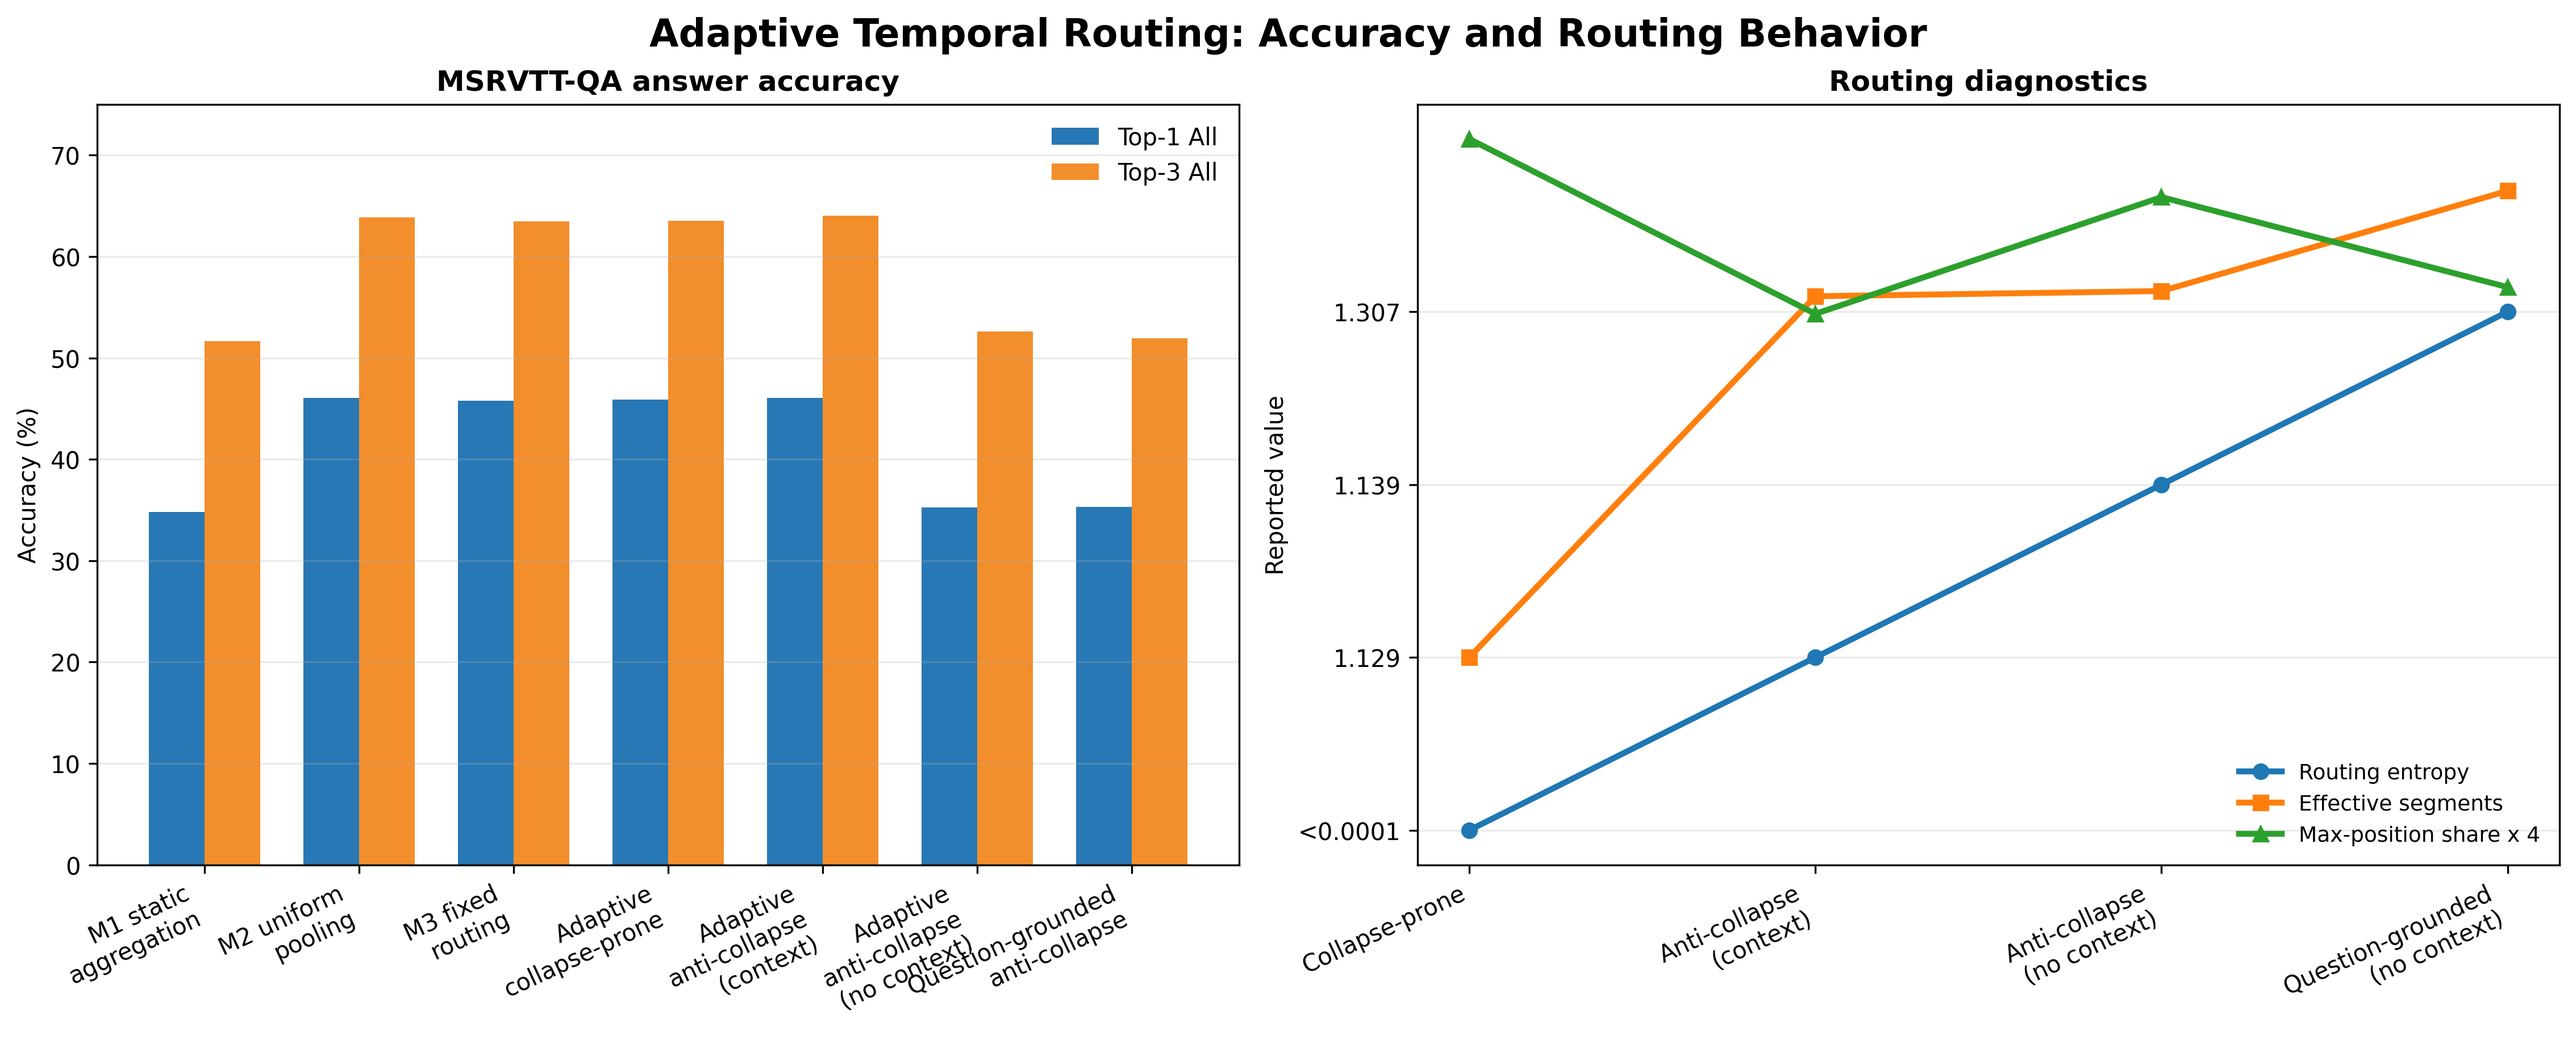
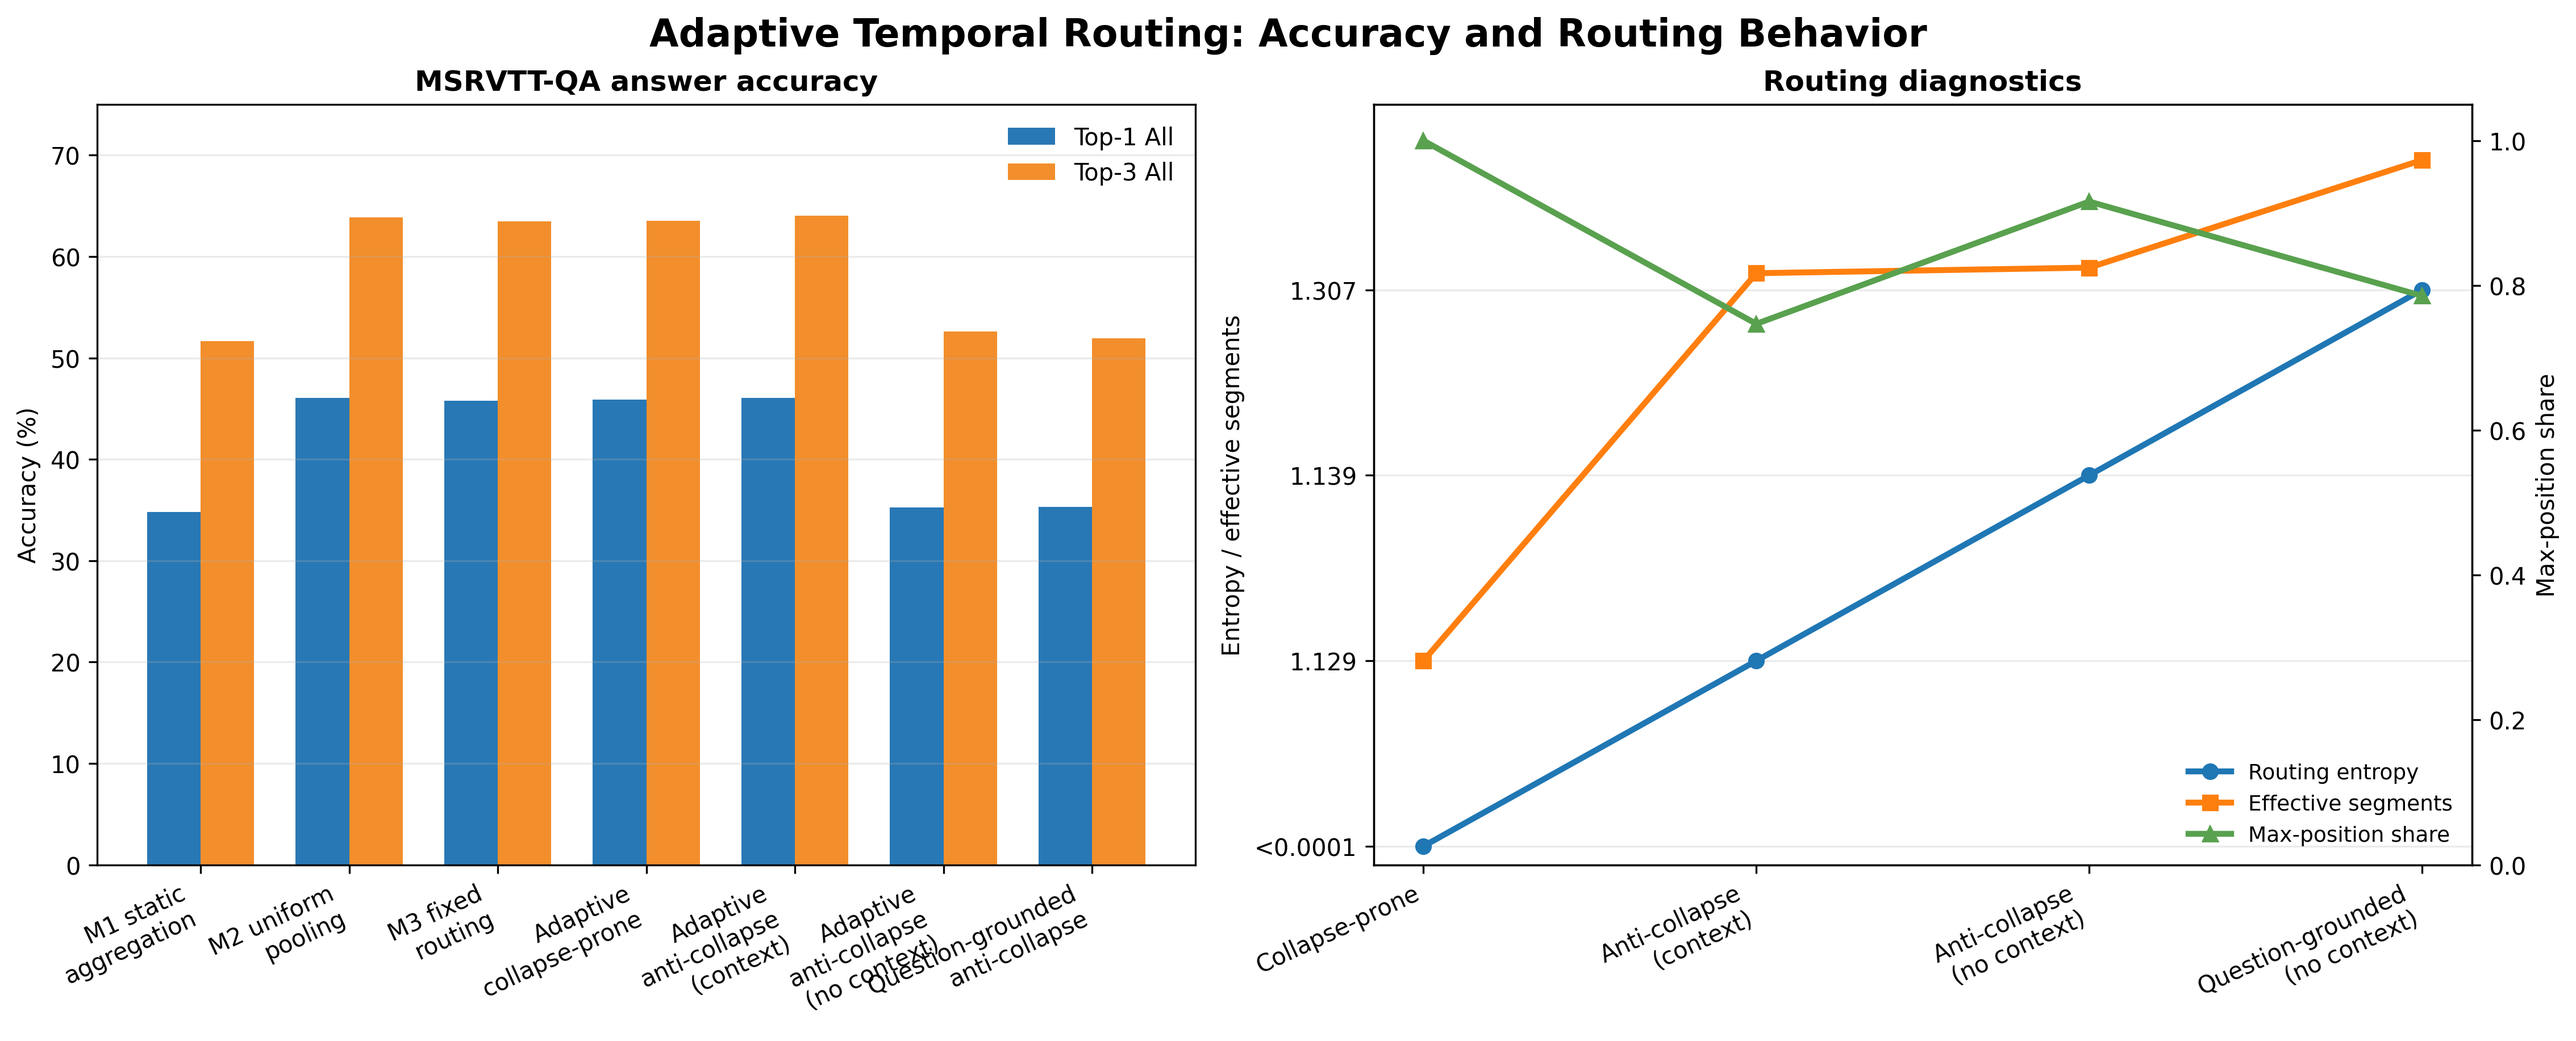
Refine routing diagnostics comparison

diff --git a/results/plot_comparison.py b/results/plot_comparison.py
@@ -37,13 +37,19 @@ left.legend(frameon=False)
 x2 = np.arange(len(routing))
 right.plot(x2, routing["mean_entropy"], marker="o", linewidth=2.5, label="Routing entropy")
 right.plot(x2, routing["effective_segments"], marker="s", linewidth=2.5, label="Effective segments")
-right.plot(x2, routing["max_position_share"] * 4, marker="^", linewidth=2.5,
-           label="Max-position share x 4")
+right.set_ylim(-0.1, 4.0)
+right_secondary = right.twinx()
+right_secondary.plot(x2, routing["max_position_share"], marker="^", linewidth=2.5,
+                     color="#59A14F", label="Max-position share")
+right_secondary.set_ylim(0, 1.05)
 right.set_title("Routing diagnostics", weight="bold")
-right.set_ylabel("Reported value")
+right.set_ylabel("Entropy / effective segments")
+right_secondary.set_ylabel("Max-position share")
 right.set_xticks(x2, routing_labels, rotation=25, ha="right")
 right.grid(axis="y", alpha=0.25)
-right.legend(frameon=False, fontsize=9)
+handles, labels = right.get_legend_handles_labels()
+handles2, labels2 = right_secondary.get_legend_handles_labels()
+right.legend(handles + handles2, labels + labels2, frameon=False, fontsize=9, loc="lower right")
 
 fig.suptitle("Adaptive Temporal Routing: Accuracy and Routing Behavior", fontsize=16, weight="bold")
 fig.savefig(ROOT / "figures" / "adaptive_routing_comparison.png", dpi=300, bbox_inches="tight")
